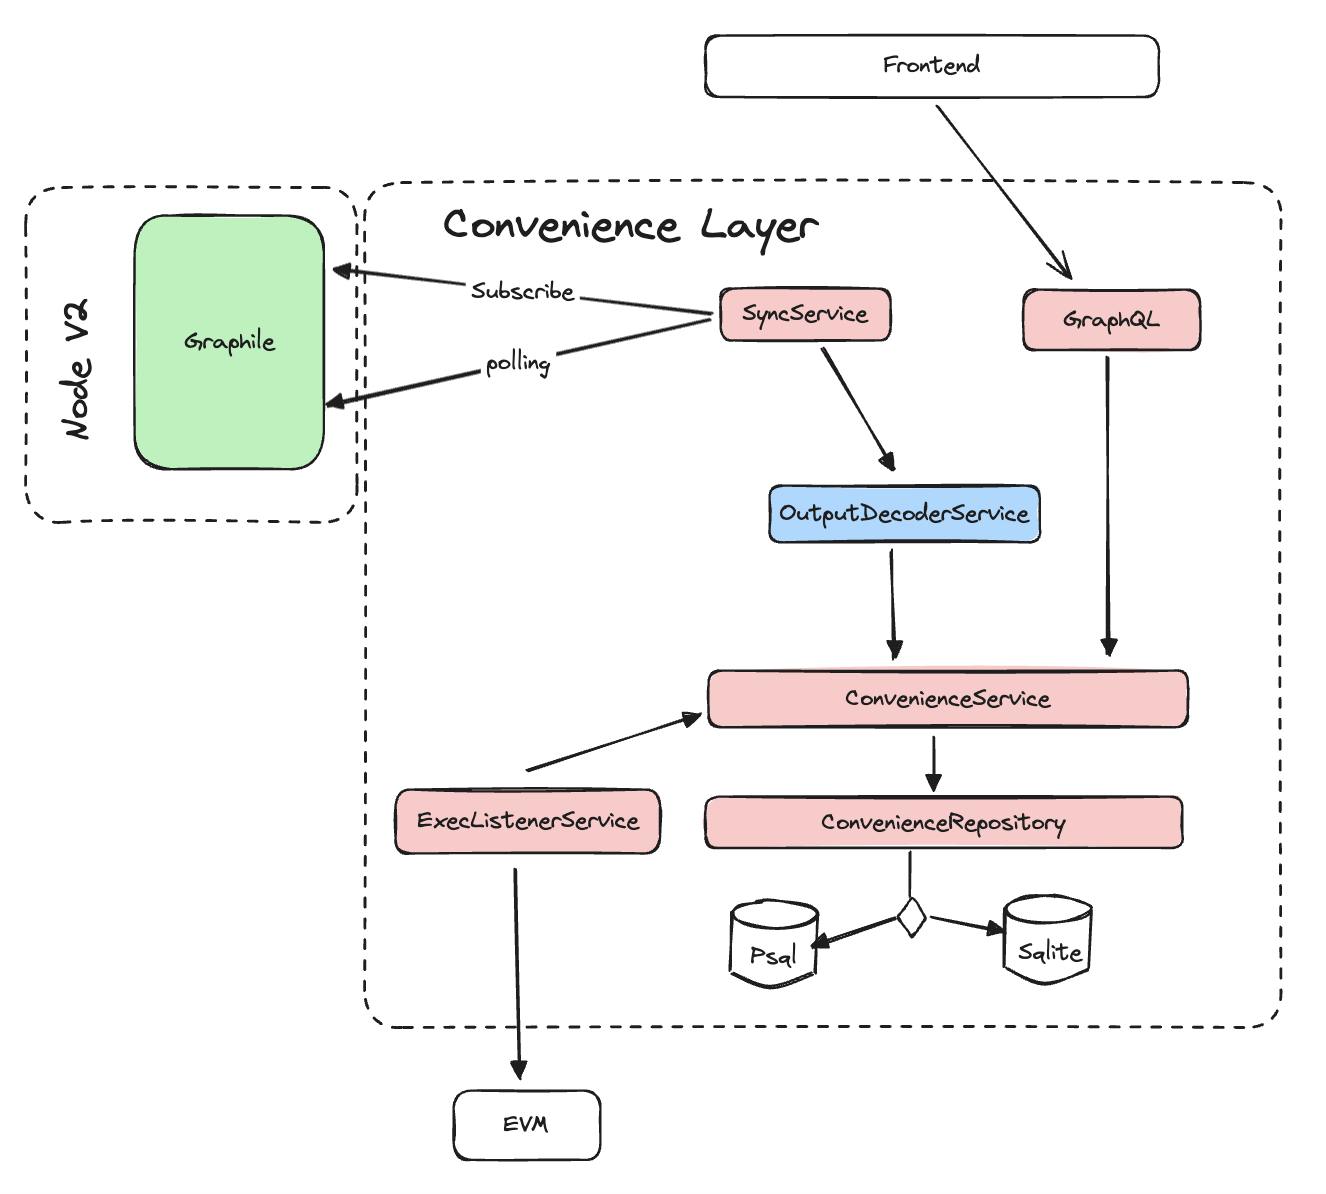
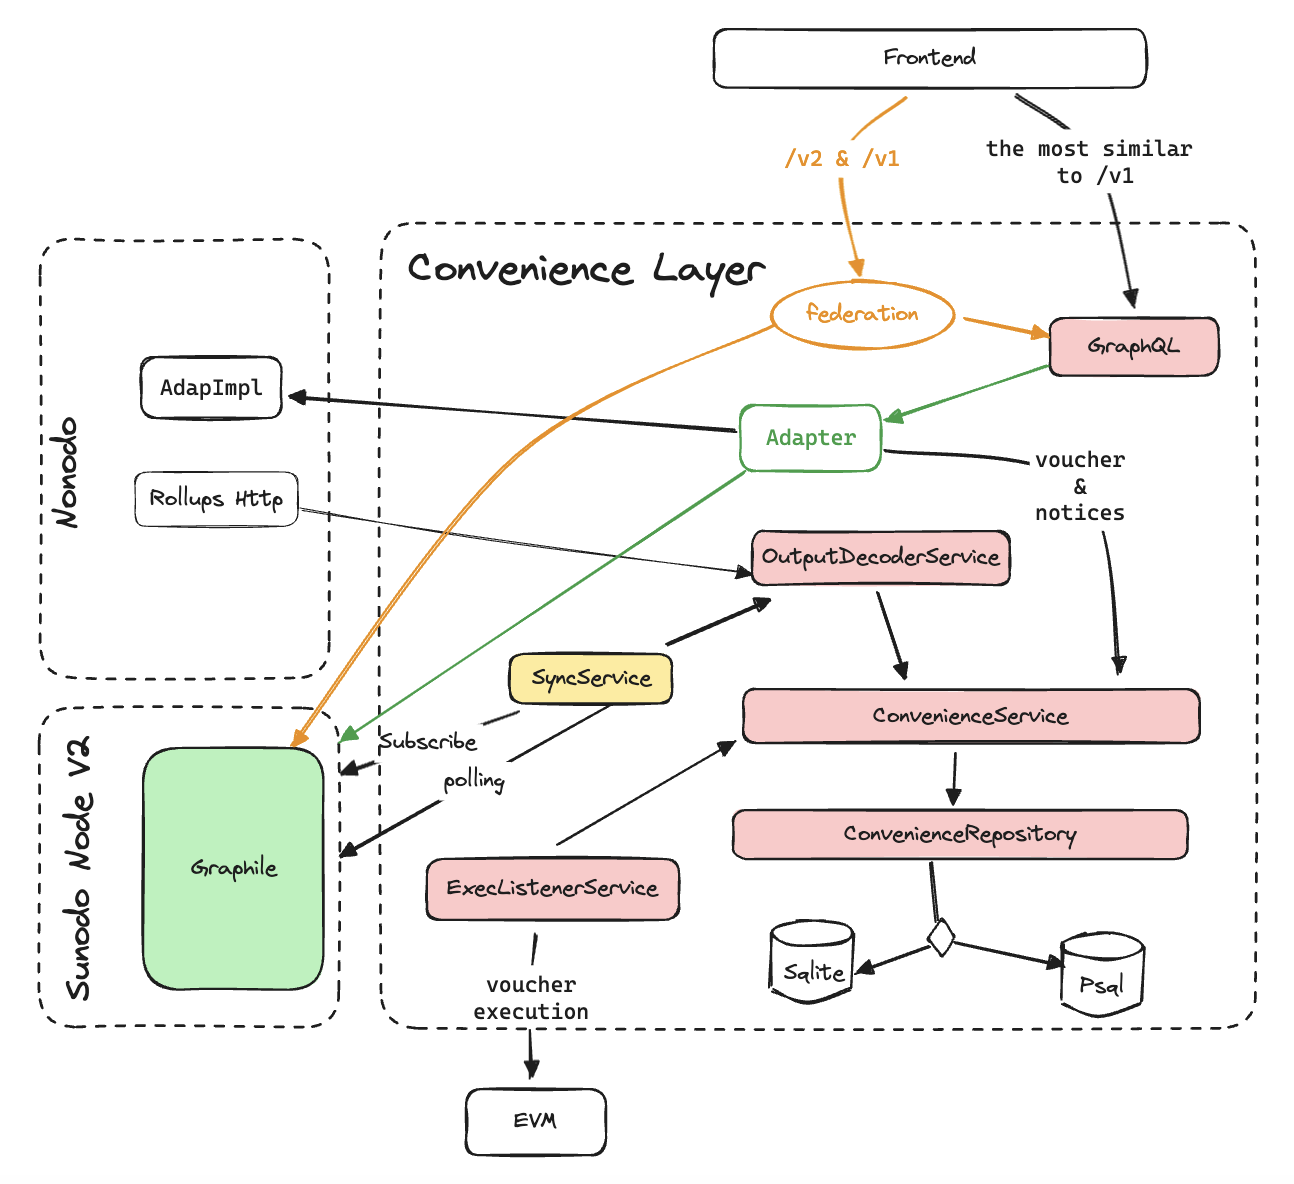
docs: update convenience diagram

diff --git a/docs/convenience.md b/docs/convenience.md
@@ -1,3 +1,5 @@
 # Convenience
 
-![ConvenienceDiagram](convenience-diagram.png)
+![Convenience Layer](convenience-diagram.png)
+
+In orange is the GraphQL federation for future version migrations.
